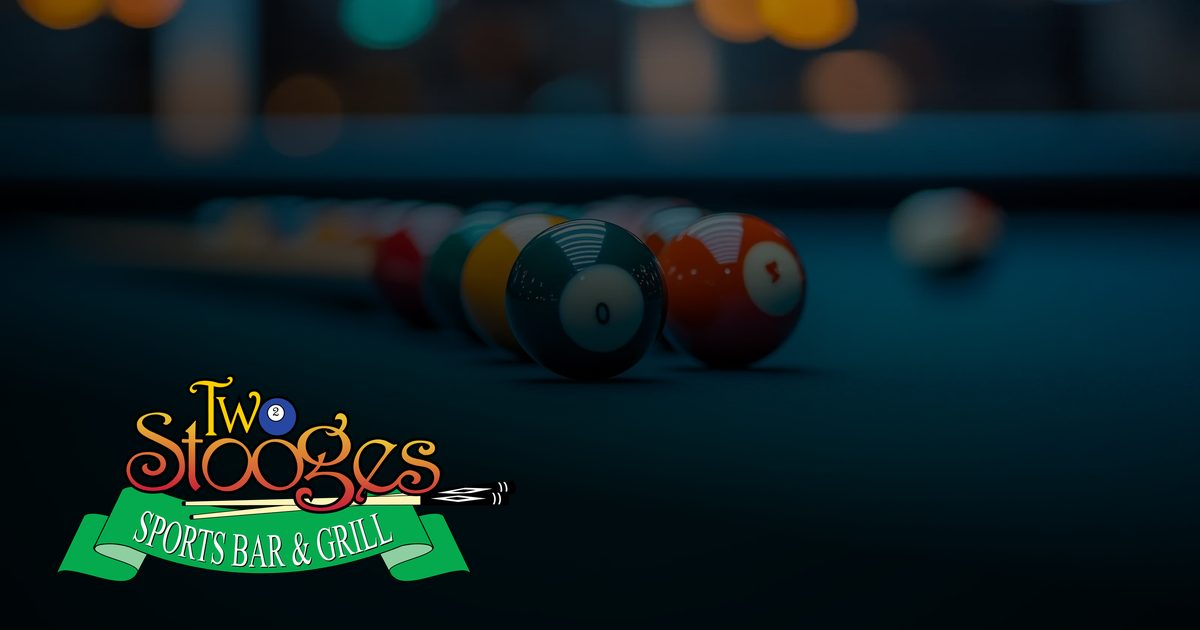
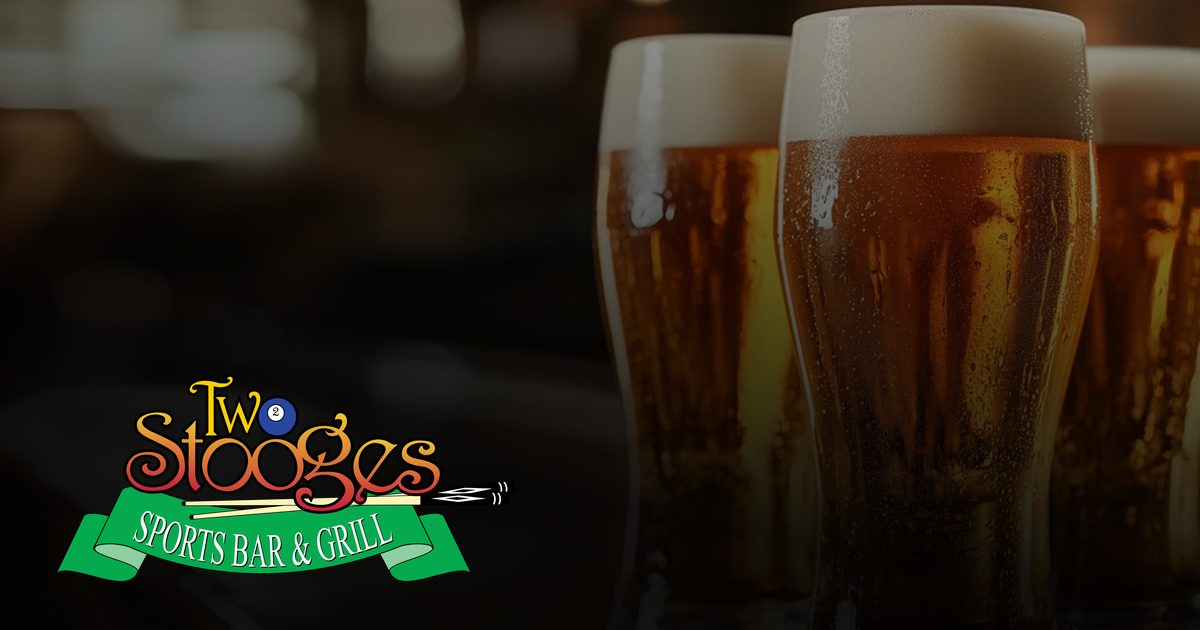
Specials: beers-on-the-bar hero image
Claude-Session: https://claude.ai/code/session_01DN2tZSLysN7zzcy4e31P47

diff --git a/specials/index.html b/specials/index.html
@@ -23,19 +23,19 @@
 <meta property="og:image:type" content="image/jpeg">
 <meta property="og:image:width" content="1200">
 <meta property="og:image:height" content="630">
-<meta property="og:image:alt" content="Pool balls on blue felt, daily specials at Two Stooges">
+<meta property="og:image:alt" content="Ice-cold pints on the bar, happy hour at Two Stooges">
 <meta name="twitter:card" content="summary_large_image">
 <meta name="twitter:title" content="Happy Hour &amp; Daily Specials | Two Stooges Sports Bar">
 <meta name="twitter:description" content="Two Stooges Sports Bar happy hour and daily specials in Fridley, MN: $1 wings Wednesday, $2 off burgers Monday, $3.50 domestics. See today&#x27;s deals now.">
 <meta name="twitter:image" content="https://twostooges.com/assets/img/og/specials.jpg">
-<meta name="twitter:image:alt" content="Pool balls on blue felt, daily specials at Two Stooges">
+<meta name="twitter:image:alt" content="Ice-cold pints on the bar, happy hour at Two Stooges">
 <link rel="icon" type="image/png" sizes="48x48" href="/assets/img/brand/favicon-48.png">
 <link rel="apple-touch-icon" href="/assets/img/brand/apple-touch-icon.png">
 <link rel="preconnect" href="https://fonts.googleapis.com">
 <link rel="preconnect" href="https://fonts.gstatic.com" crossorigin>
 <link href="https://fonts.googleapis.com/css2?family=Inter:wght@400;500;600;700&family=Oswald:wght@500;600;700&display=swap" rel="stylesheet">
 <link rel="stylesheet" href="/assets/css/site.css?v=20261017t">
-<script type="application/ld+json">{"@context":"https://schema.org","@graph":[{"@type":"WebSite","@id":"https://twostooges.com/#website","url":"https://twostooges.com/","name":"Two Stooges Sports Bar & Grill","publisher":{"@id":"https://twostooges.com/#business"},"inLanguage":"en-US"},{"@type":["BarOrPub","SportsActivityLocation"],"@id":"https://twostooges.com/#business","name":"Two Stooges Sports Bar & Grill","alternateName":["Two Stooges","Two Stooges Sports Bar"],"url":"https://twostooges.com/","logo":{"@type":"ImageObject","url":"https://twostooges.com/assets/img/brand/two-stooges-logo-1200.png","width":1200,"height":543},"image":"https://twostooges.com/assets/img/og/home.jpg","telephone":"+17635741399","email":"info@twostooges.com","foundingDate":"1988","address":{"@type":"PostalAddress","streetAddress":"7178 University Ave NE","addressLocality":"Fridley","addressRegion":"MN","postalCode":"55432","addressCountry":"US"},"geo":{"@type":"GeoCoordinates","latitude":45.098312,"longitude":-93.264562},"hasMap":"https://www.google.com/maps?cid=347673670564063440","openingHoursSpecification":[{"@type":"OpeningHoursSpecification","dayOfWeek":["Monday","Tuesday","Wednesday","Thursday","Friday","Saturday","Sunday"],"opens":"11:00","closes":"23:59"}],"publicAccess":true,"hasMenu":"https://twostooges.com/menu/","tourBookingPage":"https://twostooges.com/private-parties/","areaServed":[{"@type":"GeoCircle","@id":"https://twostooges.com/#service-area","description":"30-mile service radius anchored on Fridley, Minnesota","geoMidpoint":{"@type":"GeoCoordinates","latitude":45.098312,"longitude":-93.264562},"geoRadius":"48280"},{"@type":"State","name":"Minnesota","sameAs":"https://en.wikipedia.org/wiki/Minnesota"},{"@type":"City","name":"Fridley","sameAs":["https://en.wikipedia.org/wiki/Fridley,_Minnesota","https://www.wikidata.org/wiki/Q985235"]}],"knowsAbout":[{"@type":"Thing","name":"Billiards","sameAs":["https://en.wikipedia.org/wiki/Cue_sports","https://www.wikidata.org/wiki/Q3341285"]},{"@type":"Thing","name":"Darts","sameAs":["https://en.wikipedia.org/wiki/Darts","https://www.wikidata.org/wiki/Q131471"]},{"@type":"Thing","name":"Pool (cue sports)","sameAs":"https://en.wikipedia.org/wiki/Pool_(cue_sports)"},{"@type":"Thing","name":"Straight pool","sameAs":"https://en.wikipedia.org/wiki/Straight_pool"},{"@type":"Thing","name":"Eight-ball","sameAs":"https://en.wikipedia.org/wiki/Eight-ball"},{"@type":"Thing","name":"Ten-ball","sameAs":"https://en.wikipedia.org/wiki/Ten-ball"},{"@type":"Thing","name":"Sports bar","sameAs":"https://en.wikipedia.org/wiki/Sports_bar"}],"hasOfferCatalog":{"@type":"OfferCatalog","name":"Games, leagues & events at Two Stooges","itemListElement":[{"@id":"https://twostooges.com/billiards/#service"},{"@id":"https://twostooges.com/darts/#service"},{"@id":"https://twostooges.com/leagues/#service"},{"@id":"https://twostooges.com/private-parties/#service"}]},"potentialAction":[{"@type":"CommunicateAction","name":"Call Two Stooges","target":{"@type":"EntryPoint","urlTemplate":"tel:+17635741399","actionPlatform":["http://schema.org/DesktopWebPlatform","http://schema.org/MobileWebPlatform"]}},{"@type":"CommunicateAction","name":"Email Two Stooges","target":{"@type":"EntryPoint","urlTemplate":"mailto:info@twostooges.com","actionPlatform":["http://schema.org/DesktopWebPlatform","http://schema.org/MobileWebPlatform"]}},{"@type":"AskAction","name":"Request a private party","target":{"@type":"EntryPoint","urlTemplate":"https://twostooges.com/private-parties/#request","actionPlatform":["http://schema.org/DesktopWebPlatform","http://schema.org/MobileWebPlatform"]}},{"@type":"JoinAction","name":"Sign up for a pool or dart league","target":{"@type":"EntryPoint","urlTemplate":"https://twostooges.com/league-signup/#form","actionPlatform":["http://schema.org/DesktopWebPlatform","http://schema.org/MobileWebPlatform"]}},{"@type":"AskAction","name":"Send Two Stooges a message","target":{"@type":"EntryPoint","urlTemplate":"https://twostooges.com/contact/#form","actionPlatform":["http://schema.org/DesktopWebPlatform","http://schema.org/MobileWebPlatform"]}}],"sameAs":["https://www.google.com/maps?cid=347673670564063440","https://www.instagram.com/twostoogesbarandgrill/","https://www.yelp.com/biz/two-stooges-sports-bar-and-grill-fridley","https://www.tripadvisor.com/Restaurant_Review-g43087-d5259418-Reviews-Two_Stooges_Sports_Bar_Grill-Fridley_Minnesota.html","https://maps.apple.com/place?place-id=I390CADDFBB3A1DE1"]},{"@type":"WebPage","@id":"https://twostooges.com/specials/#webpage","url":"https://twostooges.com/specials/","name":"Happy Hour & Daily Specials | Two Stooges Sports Bar","description":"Two Stooges Sports Bar happy hour and daily specials in Fridley, MN: $1 wings Wednesday, $2 off burgers Monday, $3.50 domestics. See today's deals now.","isPartOf":{"@id":"https://twostooges.com/#website"},"about":{"@id":"https://twostooges.com/#business"},"inLanguage":"en-US","primaryImageOfPage":{"@type":"ImageObject","url":"https://twostooges.com/assets/img/og/specials.jpg","width":1200,"height":630,"caption":"Pool balls on blue felt, daily specials at Two Stooges"},"dateModified":"2026-10-17","breadcrumb":{"@id":"https://twostooges.com/specials/#breadcrumb"}},{"@type":"BreadcrumbList","@id":"https://twostooges.com/specials/#breadcrumb","itemListElement":[{"@type":"ListItem","position":1,"name":"Home","item":"https://twostooges.com/"},{"@type":"ListItem","position":2,"name":"Specials & Happy Hour","item":"https://twostooges.com/specials/"}]},{"@type":"Service","@id":"https://twostooges.com/billiards/#service","name":"Billiards & pool table rental","url":"https://twostooges.com/billiards/","provider":{"@id":"https://twostooges.com/#business"}},{"@type":"Service","@id":"https://twostooges.com/darts/#service","name":"Darts","url":"https://twostooges.com/darts/","provider":{"@id":"https://twostooges.com/#business"}},{"@type":"Service","@id":"https://twostooges.com/leagues/#service","name":"Pool & dart leagues","url":"https://twostooges.com/leagues/","provider":{"@id":"https://twostooges.com/#business"}},{"@type":"Service","@id":"https://twostooges.com/private-parties/#service","name":"Private parties & events","url":"https://twostooges.com/private-parties/","provider":{"@id":"https://twostooges.com/#business"}}]}</script>
+<script type="application/ld+json">{"@context":"https://schema.org","@graph":[{"@type":"WebSite","@id":"https://twostooges.com/#website","url":"https://twostooges.com/","name":"Two Stooges Sports Bar & Grill","publisher":{"@id":"https://twostooges.com/#business"},"inLanguage":"en-US"},{"@type":["BarOrPub","SportsActivityLocation"],"@id":"https://twostooges.com/#business","name":"Two Stooges Sports Bar & Grill","alternateName":["Two Stooges","Two Stooges Sports Bar"],"url":"https://twostooges.com/","logo":{"@type":"ImageObject","url":"https://twostooges.com/assets/img/brand/two-stooges-logo-1200.png","width":1200,"height":543},"image":"https://twostooges.com/assets/img/og/home.jpg","telephone":"+17635741399","email":"info@twostooges.com","foundingDate":"1988","address":{"@type":"PostalAddress","streetAddress":"7178 University Ave NE","addressLocality":"Fridley","addressRegion":"MN","postalCode":"55432","addressCountry":"US"},"geo":{"@type":"GeoCoordinates","latitude":45.098312,"longitude":-93.264562},"hasMap":"https://www.google.com/maps?cid=347673670564063440","openingHoursSpecification":[{"@type":"OpeningHoursSpecification","dayOfWeek":["Monday","Tuesday","Wednesday","Thursday","Friday","Saturday","Sunday"],"opens":"11:00","closes":"23:59"}],"publicAccess":true,"hasMenu":"https://twostooges.com/menu/","tourBookingPage":"https://twostooges.com/private-parties/","areaServed":[{"@type":"GeoCircle","@id":"https://twostooges.com/#service-area","description":"30-mile service radius anchored on Fridley, Minnesota","geoMidpoint":{"@type":"GeoCoordinates","latitude":45.098312,"longitude":-93.264562},"geoRadius":"48280"},{"@type":"State","name":"Minnesota","sameAs":"https://en.wikipedia.org/wiki/Minnesota"},{"@type":"City","name":"Fridley","sameAs":["https://en.wikipedia.org/wiki/Fridley,_Minnesota","https://www.wikidata.org/wiki/Q985235"]}],"knowsAbout":[{"@type":"Thing","name":"Billiards","sameAs":["https://en.wikipedia.org/wiki/Cue_sports","https://www.wikidata.org/wiki/Q3341285"]},{"@type":"Thing","name":"Darts","sameAs":["https://en.wikipedia.org/wiki/Darts","https://www.wikidata.org/wiki/Q131471"]},{"@type":"Thing","name":"Pool (cue sports)","sameAs":"https://en.wikipedia.org/wiki/Pool_(cue_sports)"},{"@type":"Thing","name":"Straight pool","sameAs":"https://en.wikipedia.org/wiki/Straight_pool"},{"@type":"Thing","name":"Eight-ball","sameAs":"https://en.wikipedia.org/wiki/Eight-ball"},{"@type":"Thing","name":"Ten-ball","sameAs":"https://en.wikipedia.org/wiki/Ten-ball"},{"@type":"Thing","name":"Sports bar","sameAs":"https://en.wikipedia.org/wiki/Sports_bar"}],"hasOfferCatalog":{"@type":"OfferCatalog","name":"Games, leagues & events at Two Stooges","itemListElement":[{"@id":"https://twostooges.com/billiards/#service"},{"@id":"https://twostooges.com/darts/#service"},{"@id":"https://twostooges.com/leagues/#service"},{"@id":"https://twostooges.com/private-parties/#service"}]},"potentialAction":[{"@type":"CommunicateAction","name":"Call Two Stooges","target":{"@type":"EntryPoint","urlTemplate":"tel:+17635741399","actionPlatform":["http://schema.org/DesktopWebPlatform","http://schema.org/MobileWebPlatform"]}},{"@type":"CommunicateAction","name":"Email Two Stooges","target":{"@type":"EntryPoint","urlTemplate":"mailto:info@twostooges.com","actionPlatform":["http://schema.org/DesktopWebPlatform","http://schema.org/MobileWebPlatform"]}},{"@type":"AskAction","name":"Request a private party","target":{"@type":"EntryPoint","urlTemplate":"https://twostooges.com/private-parties/#request","actionPlatform":["http://schema.org/DesktopWebPlatform","http://schema.org/MobileWebPlatform"]}},{"@type":"JoinAction","name":"Sign up for a pool or dart league","target":{"@type":"EntryPoint","urlTemplate":"https://twostooges.com/league-signup/#form","actionPlatform":["http://schema.org/DesktopWebPlatform","http://schema.org/MobileWebPlatform"]}},{"@type":"AskAction","name":"Send Two Stooges a message","target":{"@type":"EntryPoint","urlTemplate":"https://twostooges.com/contact/#form","actionPlatform":["http://schema.org/DesktopWebPlatform","http://schema.org/MobileWebPlatform"]}}],"sameAs":["https://www.google.com/maps?cid=347673670564063440","https://www.instagram.com/twostoogesbarandgrill/","https://www.yelp.com/biz/two-stooges-sports-bar-and-grill-fridley","https://www.tripadvisor.com/Restaurant_Review-g43087-d5259418-Reviews-Two_Stooges_Sports_Bar_Grill-Fridley_Minnesota.html","https://maps.apple.com/place?place-id=I390CADDFBB3A1DE1"]},{"@type":"WebPage","@id":"https://twostooges.com/specials/#webpage","url":"https://twostooges.com/specials/","name":"Happy Hour & Daily Specials | Two Stooges Sports Bar","description":"Two Stooges Sports Bar happy hour and daily specials in Fridley, MN: $1 wings Wednesday, $2 off burgers Monday, $3.50 domestics. See today's deals now.","isPartOf":{"@id":"https://twostooges.com/#website"},"about":{"@id":"https://twostooges.com/#business"},"inLanguage":"en-US","primaryImageOfPage":{"@type":"ImageObject","url":"https://twostooges.com/assets/img/og/specials.jpg","width":1200,"height":630,"caption":"Ice-cold pints on the bar, happy hour at Two Stooges"},"dateModified":"2026-10-17","breadcrumb":{"@id":"https://twostooges.com/specials/#breadcrumb"}},{"@type":"BreadcrumbList","@id":"https://twostooges.com/specials/#breadcrumb","itemListElement":[{"@type":"ListItem","position":1,"name":"Home","item":"https://twostooges.com/"},{"@type":"ListItem","position":2,"name":"Specials & Happy Hour","item":"https://twostooges.com/specials/"}]},{"@type":"Service","@id":"https://twostooges.com/billiards/#service","name":"Billiards & pool table rental","url":"https://twostooges.com/billiards/","provider":{"@id":"https://twostooges.com/#business"}},{"@type":"Service","@id":"https://twostooges.com/darts/#service","name":"Darts","url":"https://twostooges.com/darts/","provider":{"@id":"https://twostooges.com/#business"}},{"@type":"Service","@id":"https://twostooges.com/leagues/#service","name":"Pool & dart leagues","url":"https://twostooges.com/leagues/","provider":{"@id":"https://twostooges.com/#business"}},{"@type":"Service","@id":"https://twostooges.com/private-parties/#service","name":"Private parties & events","url":"https://twostooges.com/private-parties/","provider":{"@id":"https://twostooges.com/#business"}}]}</script>
 </head>
 <body>
 <a class="skip-link" href="#main">Skip to content</a>
@@ -74,7 +74,7 @@
 </header>
 <main id="main">
 <section class="page-hero on-dark">
-  <div class="page-hero__media"><img src="/assets/img/photos/billiard-balls-felt.webp" srcset="/assets/img/photos/billiard-balls-felt-sm.webp 800w, /assets/img/photos/billiard-balls-felt.webp 1600w" sizes="100vw" width="1600" height="897" alt="Pool balls on blue felt" fetchpriority="high"></div>
+  <div class="page-hero__media"><img src="/assets/img/photos/beers-on-bar.webp" srcset="/assets/img/photos/beers-on-bar-sm.webp 900w, /assets/img/photos/beers-on-bar.webp 1638w" sizes="100vw" width="1638" height="541" alt="Three ice-cold pints of beer lined up on the bar" fetchpriority="high"></div>
   <div class="wrap">
     <nav class="crumbs" aria-label="Breadcrumb"><ol><li><a href="/">Home</a></li><li aria-current="page">Specials &amp; Happy Hour</li></ol></nav>
     <span class="eyebrow">Daily deals</span>

diff --git a/_src/build.py b/_src/build.py
@@ -277,7 +277,7 @@ META = {
              "photos/pool-hall-interior", "Tables and booths at Two Stooges Sports Bar & Grill in Fridley", "Menu"),
     "specials": ("/specials/", "Happy Hour & Daily Specials | Two Stooges Sports Bar",
                  "Two Stooges Sports Bar happy hour and daily specials in Fridley, MN: $1 wings Wednesday, $2 off burgers Monday, $3.50 domestics. See today's deals now.",
-                 "photos/billiard-balls-felt", "Pool balls on blue felt, daily specials at Two Stooges", "Specials & Happy Hour"),
+                 "photos/beers-on-bar", "Ice-cold pints on the bar, happy hour at Two Stooges", "Specials & Happy Hour"),
     "billiards": ("/billiards/", "Pool Tables & Billiards in Fridley, MN | Two Stooges",
                   "Play pool at Two Stooges Sports Bar in Fridley, MN: 43 Gabriel's and Diamond tables, daily pool specials, leagues, tournaments and a Pro Shop. Rack up today.",
                   "photos/billiard-hall-tables", "The 43-table billiard room at Two Stooges Sports Bar in Fridley", "Billiards"),
@@ -1131,7 +1131,7 @@ def p_specials():
         days.append(f'<article class="day-card" data-weekday="{wd}"><div class="day-card__day"><h3>{e(name)}</h3><span class="today-badge">Today</span></div>{d}</article>')
     body = f'''{page_hero("specials", "Daily deals", "Two Stooges Sports Bar <span class='grad-text'>specials &amp; happy hour</span>",
         f"There's a deal every day at Two Stooges in Fridley, and today's specials are highlighted below. Browse the {L('/menu/', 'full bar and grill menu')} or grab a table with our {L('#pool', 'daily pool specials')}.",
-        "photos/billiard-balls-felt", "Pool balls on blue felt", btn("View the Menu", "/menu/", "gold") + btn("Pool Specials", "#pool", "outline"))}
+        "photos/beers-on-bar", "Three ice-cold pints of beer lined up on the bar", btn("View the Menu", "/menu/", "gold") + btn("Pool Specials", "#pool", "outline"))}
 <section class="section"><div class="wrap">
   {section_head("This week", "Daily food &amp; drink specials in Fridley", "Food specials, happy hour times and drink prices for each day of the week.")}
   <div class="grid grid--4">{"".join(days)}</div>
